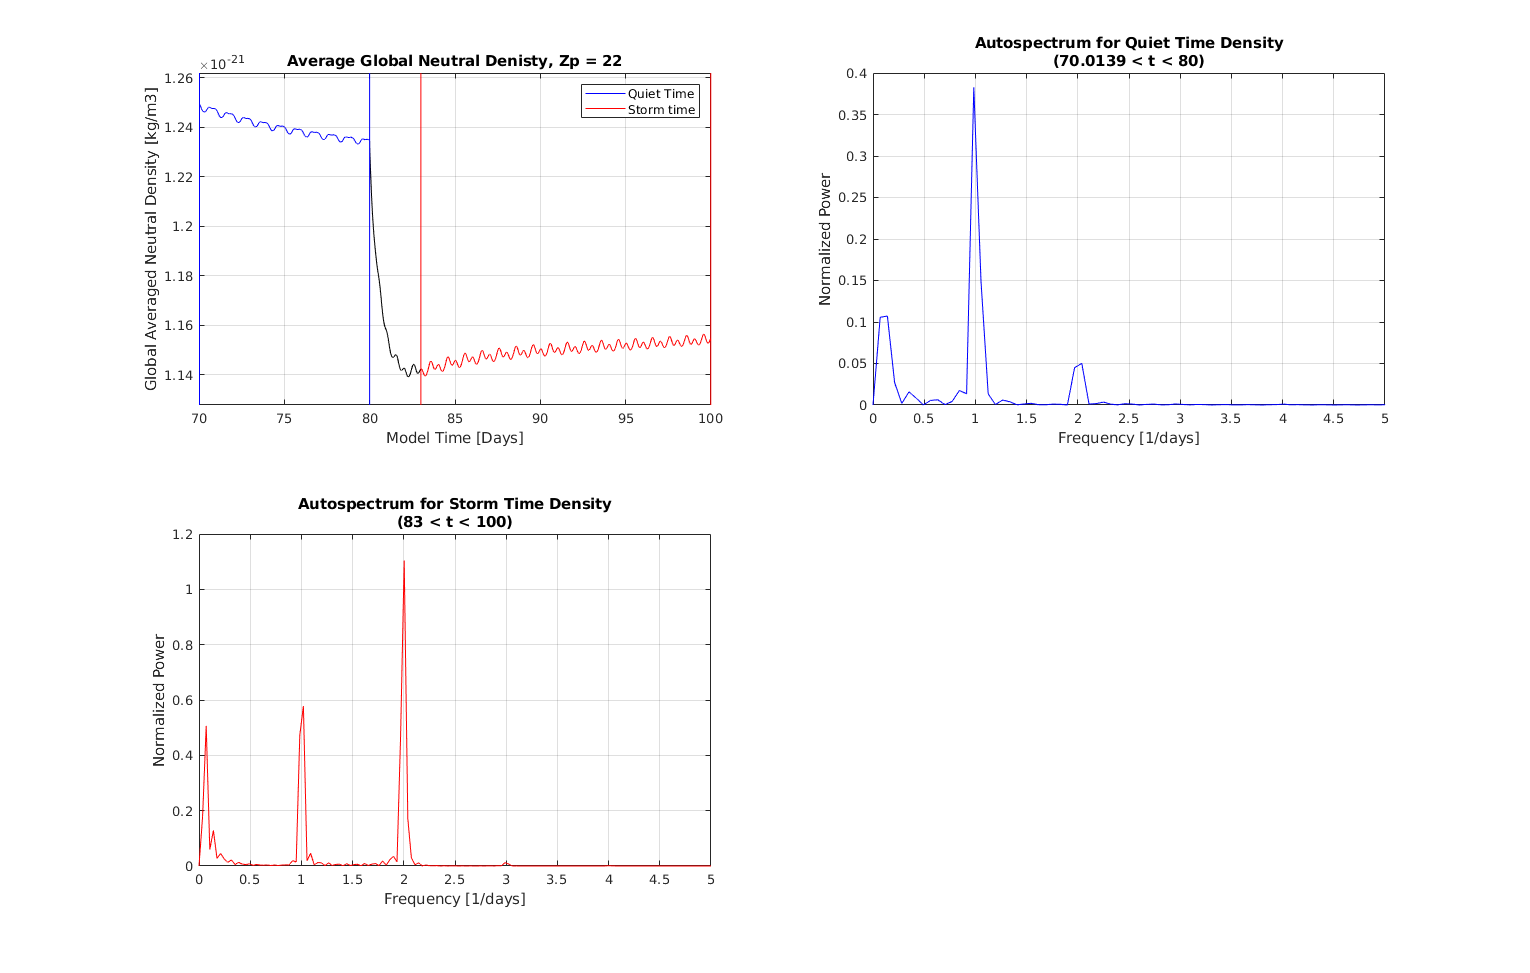
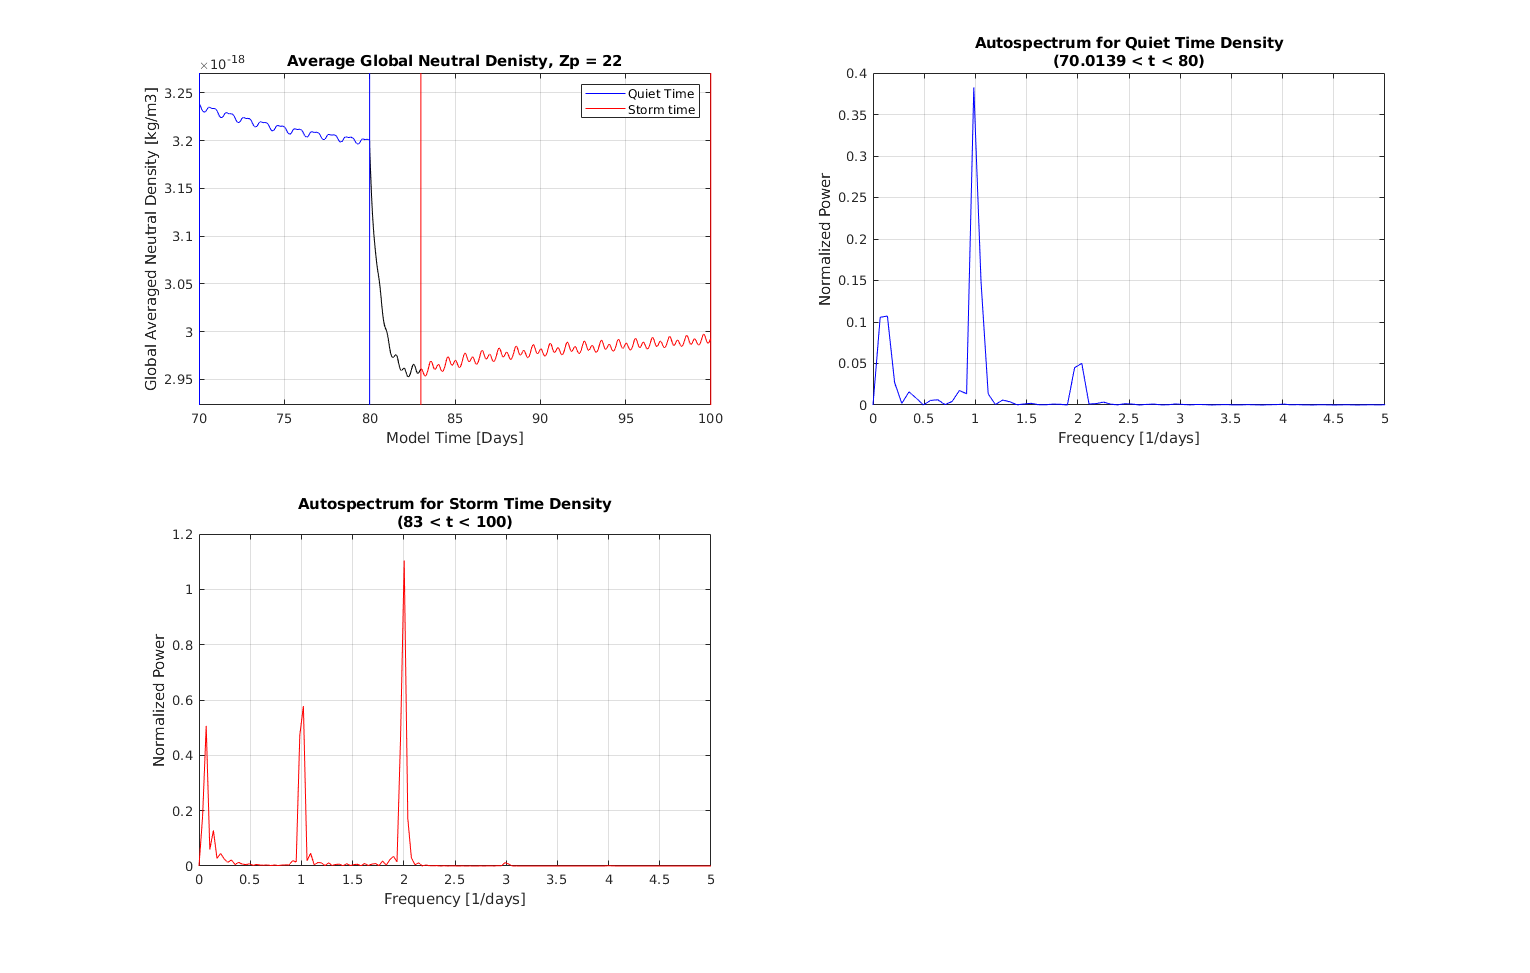
dd

Changed region(s): [[0.0922, 0.2775, 0.1229, 0.3083]]

diff --git a/Chapter5-TimeSeriesAnalysis/Wavelet.m b/Chapter5-TimeSeriesAnalysis/Wavelet.m
@@ -1,0 +1,40 @@
+% this program tries to understand how sucky wavelets work.
+% cool cool
+
+
+dt = 0.5;
+fs = 1/dt;
+t = [0:dt:5000];
+
+A = 23;
+B = 10;
+f1 = 1/50;
+f2 = 1/100;
+
+x = A * sin(2*pi*f1*t)  + B * sin(2*pi*f2*t) + randn(size(t));
+
+% x = x + x_noise;
+
+% [cfs,frq]  = ;
+cwt(x, 'amor', seconds(dt))
+
+
+% tms = (0:numel(x)-1)/fs;
+% 
+% figure
+% subplot(2,1,1)
+% plot(t,x)
+% axis tight
+% title('Signal')
+% xlabel('Time (s)')
+% ylabel('Amplitude')
+% 
+% 
+% subplot(2,1,2)
+% surface(t,1./frq,abs(cfs))
+% axis tight
+% shading flat
+% xlabel('Time (s)')
+% ylabel('Period (sec)')
+% % set(gca,'yscale','log')
+% 

diff --git a/Chapter5-TimeSeriesAnalysis/startup.m b/Chapter5-TimeSeriesAnalysis/startup.m
@@ -1,0 +1,10 @@
+addpath(genpath('~/MATLAB/TIEGCM_files'));
+
+% table of constants
+atom_unit = 1.6605e-27;         % kg/unit
+c = 2.99792458E8;               % speed of light in vacuum [m/s]
+wE = 7.2921151467E-5;           % angular velocity of earth [rad/s]
+h = 6.626070E-34;               % Plank Const [J s]
+e = 1.60217662E-19;             % elementary charge [C]
+kb = 1.38064852E-23;            % boltzman constant   [m^2 kg s^-2 K^-1]
+Av = 6.0221409E23;              % Avogadro's Number

diff --git a/Chapter5-TimeSeriesAnalysis/GlobeAreaAvg.m b/Chapter5-TimeSeriesAnalysis/GlobeAreaAvg.m
@@ -24,10 +24,10 @@ sum = 0;
 for i = 1:N_lon
     for j = 1:N_lat
         dOmega = dphi*dtheta*cos(lat(j) * pi/180);      % solid angle for specific location [sr]
-        sum = sum + x(i,j)*dOmega/(4*pi);   % work with radians
+        sum = sum + x(i,j)*dOmega;   % work with radians
     end 
 end
 
-x_avg = sum/(N_lat*N_lon);
+x_avg = sum/(4*pi);
 end
 

diff --git a/Chapter5-TimeSeriesAnalysis/chap5_timeSeries.m b/Chapter5-TimeSeriesAnalysis/chap5_timeSeries.m
@@ -70,13 +70,10 @@ xlabel('Frequency [1/days]')
 ylabel('Normalized Power');
 grid on;
 
-
+%%
+ratio = sum(Pxxq(:))/sum(Pxxst(:));
 
 %% export data to work with python
 csvwrite('~/Documents/Python/t_series_data.csv', t_series.Den);
-
-
-
-
 
 

diff --git a/Chapter5-TimeSeriesAnalysis/README.md b/Chapter5-TimeSeriesAnalysis/README.md
@@ -1,0 +1,5 @@
+# ASEN5307
+Code for the data analysis independent study. All of these scripts were run using Eric's TIEGCM files where he changed the F10.7 and Kp index. Please reach out to me at haho3703@colorado.edu to access these run output files.
+
+FOR ME:
+Shared Folder --> TIE-GCM Simulations --> TIEGCM.sensitivity.to.f107.kp
